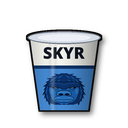
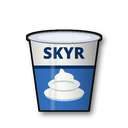
Plain Skyr design for the Skyr cup, no Kong gorilla

Changed region(s): [[0.3125, 0.5312, 0.6875, 0.875], [0.3438, 0.3438, 0.6562, 0.4688], [0.3125, 0.8438, 0.375, 0.875]]

diff --git a/tools/make_icons.py b/tools/make_icons.py
@@ -279,8 +279,8 @@ def draw_empty():
 
 
 def draw_cup():
-    """Skyr cup with foil lid and the gorilla."""
-    main, dark = (70, 140, 214), (14, 52, 104)
+    """Plain Skyr cup: white and blue with a cream swirl, no Kong branding."""
+    main, dark = (52, 116, 196), (14, 52, 104)
     top, bottom = 150, 440
     layer = new_layer()
     mask = Image.new("L", (W, H), 0)
@@ -289,12 +289,17 @@ def draw_cup():
     ad = ImageDraw.Draw(art)
     ad.rectangle([0, 0, W, H], fill=(246, 246, 240))
     ad.rectangle([0, 270, W, H], fill=main)
-    gorilla = draw_full_face("blue")
-    gorilla = gorilla.resize((180, int(180 * gorilla.height / gorilla.width)), Image.LANCZOS)
-    art.alpha_composite(gorilla, (256 - 90, 356 - gorilla.height // 2))
+    # cream swirl on the blue part
+    cream, shadow = (252, 252, 246), (196, 210, 228)
+    for (x0, y0, x1, y1, c) in ((180, 352, 332, 404, shadow), (176, 344, 336, 396, cream),
+                                (196, 318, 316, 366, shadow), (192, 312, 320, 360, cream),
+                                (218, 290, 294, 330, cream)):
+        ad.ellipse([x0, y0, x1, y1], fill=c)
+    ad.polygon([(244, 268), (268, 300), (232, 304)], fill=cream)
+    ad.arc([204, 322, 300, 352], 200, 340, fill=shadow, width=6)
     font = ImageFont.truetype(FONT_HEAVY, 64)
     tb = ad.textbbox((0, 0), "SKYR", font=font)
-    ad.text((256 - (tb[2] + tb[0]) // 2, 212 - (tb[3] + tb[1]) // 2), "SKYR", font=font, fill=(16, 22, 34))
+    ad.text((256 - (tb[2] + tb[0]) // 2, 212 - (tb[3] + tb[1]) // 2), "SKYR", font=font, fill=dark)
     ad.rectangle([0, 262, W, 274], fill=dark)
     layer.paste(art, (0, 0), mask)
     layer = shade_cylinder(layer, 120, 392, 0.4)
